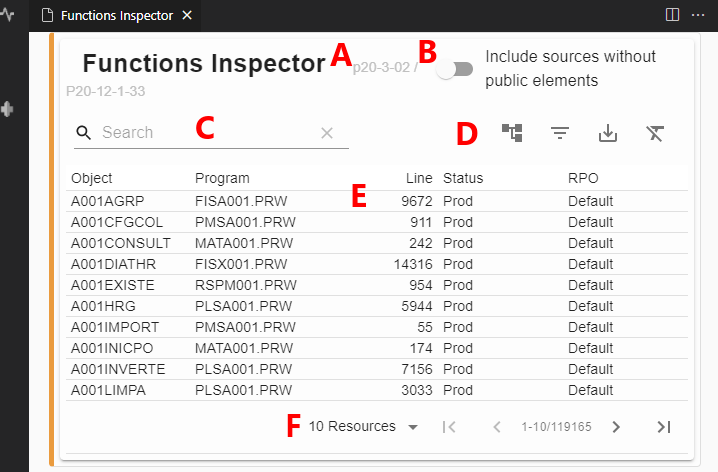
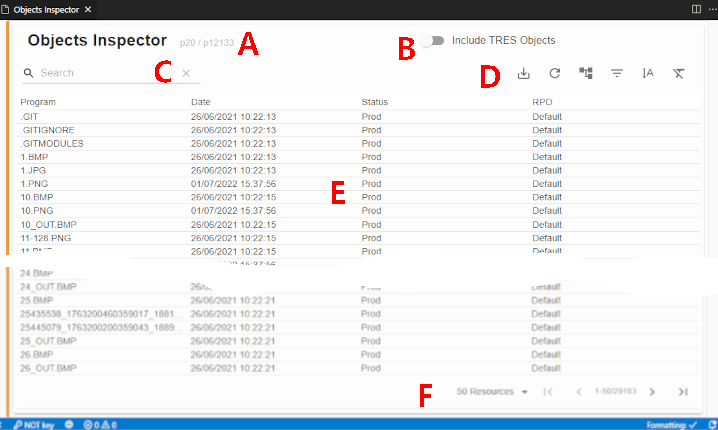
Fix 967

diff --git a/src/inspect-harpia/inspectLoader.ts b/src/inspect-harpia/inspectLoader.ts
@@ -168,10 +168,27 @@ export class InspectorLoader implements vscode.Disposable {
           async (progress, token) => {
             progress.report({ increment: 0 });
 
-            const filename: string = this.doExportToTxt(
-              this.inspectServer,
-              command.content.rows
-            );
+            let filename: string = "";
+
+            if (command.content.csv) {
+              if (this._options.objectsInspector) {
+                filename = this.doExportObjectsToCsv(
+                  command.content.columns,
+                  command.content.rows
+                );
+              } else {
+                filename = this.doExportFunctionsToCsv(
+                  command.content.columns,
+                  command.content.rows
+                );
+              }
+            } else {
+              filename = this.doExportToTxt(
+                this.inspectServer,
+                command.content.rows
+              );
+            }
+
             const uri: vscode.Uri = vscode.Uri.parse("file:" + filename);
             await vscode.workspace.openTextDocument(uri).then(
               (a: vscode.TextDocument) => {
@@ -226,7 +243,7 @@ export class InspectorLoader implements vscode.Disposable {
     for (const value of functionsInfo) {
       let line: string = "";
 
-      Object.keys(value).forEach((key: string) => {
+      ['source', 'date', 'rpo_status', 'source_status'].forEach((key: string) => {
         line += `${value[key]}`.padEnd(25);
       });
 
@@ -244,6 +261,59 @@ export class InspectorLoader implements vscode.Disposable {
     writeLine(`Generated by TDS-VSCode version${ext.packageJSON["version"]}`);
     writeLine(`at ${now}`);
     writeLine(SEPARATOR_LINE);
+
+    return file.name;
+  }
+
+  private doExportObjectsToCsv(columns: any[], functionsInfo: any[]): string {
+    const tmp = require("tmp");
+    const file = tmp.fileSync({ prefix: "vscode-tds-rpo", postfix: ".csv" });
+    const fs = require("fs");
+
+    const writeLine = (line: string) => {
+      fs.appendFileSync(file.fd, line);
+      fs.appendFileSync(file.fd, "\n");
+    };
+
+    const colSource: any = columns.find((col: any) => col.field == "source");
+    const colDate: any = columns.find((col: any) => col.field == "date");
+    const colSourceStatus: any = columns.find((col: any) => col.field == "source_status");
+    const colRpoStatus: any = columns.find((col: any) => col.field == "rpo_status");
+
+    let line: string = `"${colSource.title}";"${colDate.title}";"${colSourceStatus.title}";"${colRpoStatus.title}"`
+    writeLine(line);
+
+    for (const value of functionsInfo) {
+      line = `"${value["source"]}";"${value["date"]}";"${colSourceStatus.lookup[value["source_status"]]}";"${colRpoStatus.lookup[value["rpo_status"]]}"`;
+      writeLine(line);
+    }
+
+    return file.name;
+  }
+
+  private doExportFunctionsToCsv(columns: any[], functionsInfo: any[]): string {
+    const tmp = require("tmp");
+    const file = tmp.fileSync({ prefix: "vscode-tds-rpo", postfix: ".csv" });
+    const fs = require("fs");
+
+    const writeLine = (line: string) => {
+      fs.appendFileSync(file.fd, line);
+      fs.appendFileSync(file.fd, "\n");
+    };
+
+    const colFunction: any = columns.find((col: any) => col.field == "function");
+    const colSource: any = columns.find((col: any) => col.field == "source");
+    const colLine: any = columns.find((col: any) => col.field == "line");
+    const colSourceStatus: any = columns.find((col: any) => col.field == "source_status");
+    const colRpoStatus: any = columns.find((col: any) => col.field == "rpo_status");
+
+    let line: string = `"${colFunction.title}";"${colSource.title}";"${colLine.title}";"${colSourceStatus.title}";"${colRpoStatus.title}"`
+    writeLine(line);
+
+    for (const value of functionsInfo) {
+      line = `"${value["function"]}";"${value["source"]}";"${value["line"]}";"${colSourceStatus.lookup[value["source_status"]]}";"${colRpoStatus.lookup[value["rpo_status"]]}"`;
+      writeLine(line);
+    }
 
     return file.name;
   }
@@ -306,29 +376,29 @@ export class InspectorLoader implements vscode.Disposable {
         });
       } else {
         proc = () =>
-        sendInspectorFunctionsRequest(
-          this.inspectServer,
-          !this._options.includeOutScope
-        ).then(
-          (rows: IFunctionData[]) => {
-            this._results = rows;
-            this._panel.webview.postMessage({
-              command: InspectorPanelAction.UpdateInspectorInfo,
-              data: {
-                serverName: this.inspectServer.name,
-                environment: this.inspectServer.environment,
-                includeOutScope: this._options.includeOutScope,
-                dataRows: this._results,
-              },
-            });
-          },
-          (err: Error) => {
-            languageClient.error(err.message, err);
-            vscode.window.showErrorMessage(
-              err.message + localize("SEE_LOG", ". See log for details.")
-            );
-          }
-        );
+          sendInspectorFunctionsRequest(
+            this.inspectServer,
+            !this._options.includeOutScope
+          ).then(
+            (rows: IFunctionData[]) => {
+              this._results = rows;
+              this._panel.webview.postMessage({
+                command: InspectorPanelAction.UpdateInspectorInfo,
+                data: {
+                  serverName: this.inspectServer.name,
+                  environment: this.inspectServer.environment,
+                  includeOutScope: this._options.includeOutScope,
+                  dataRows: this._results,
+                },
+              });
+            },
+            (err: Error) => {
+              languageClient.error(err.message, err);
+              vscode.window.showErrorMessage(
+                err.message + localize("SEE_LOG", ". See log for details.")
+              );
+            }
+          );
       }
     }
 

diff --git a/src/inspect-harpia/app/inpectorPanel.tsx b/src/inspect-harpia/app/inpectorPanel.tsx
@@ -22,6 +22,7 @@ import {
 import { i18n } from "../helper";
 import { useToolbarStyles } from "../helper/theme";
 import SaveAlt from "@material-ui/icons/SaveAlt";
+import TextRotateVerticalOutlinedIcon from '@material-ui/icons/TextRotateVerticalOutlined';
 import InspectorTheme from "../helper/theme";
 import {
   Checkbox,
@@ -266,7 +267,7 @@ export default function InspectorPanel(props: IInspectorPanel) {
   });
 
   actions.push({
-    icon: () => <SaveAlt />,
+    icon: () => <TextRotateVerticalOutlinedIcon />,
     tooltip: i18n.localize("EXPORT", "Export as text file"),
     isFreeAction: true,
     onClick: () => {
@@ -295,9 +296,9 @@ export default function InspectorPanel(props: IInspectorPanel) {
   const labelIncludeOutScope = props.options.objectsInspector
     ? i18n.localize("INCLUDE_TRES", "Include TRES Objects")
     : i18n.localize(
-        "INCLUDE_NOT_PUBLIC",
-        "Include sources without public elements"
-      );
+      "INCLUDE_NOT_PUBLIC",
+      "Include sources without public elements"
+    );
   const refTable = React.useRef(null);
 
   return (
@@ -305,6 +306,7 @@ export default function InspectorPanel(props: IInspectorPanel) {
       <Paper variant="outlined">
         <MaterialTable
           tableRef={refTable}
+          title={`${title} ${subtitle}`}
           components={{
             Toolbar: (props) => (
               <div id="toolbarID">
@@ -341,7 +343,20 @@ export default function InspectorPanel(props: IInspectorPanel) {
             selection: false,
             grouping: grouping,
             filtering: filtering,
-            exportButton: false,
+            exportButton: true,
+            exportAllData: true,
+            exportCsv: (columns, data) => {
+              let command: IInspectorPanelAction = {
+                action: InspectorPanelAction.ExportToTxt,
+                content: {
+                  columns: columns,
+                  rows: data,
+                  csv: true
+                },
+              };
+
+              props.vscode.postMessage(command);
+            },
             padding: "dense",
             columnsButton: false,
             sorting: true,

diff --git a/src/inspect-harpia/app/inpectorPanelMemento.tsx b/src/inspect-harpia/app/inpectorPanelMemento.tsx
@@ -118,22 +118,22 @@ export const propFunctionsColumns = (extraProps?: any): any => {
       fieldDef("function", i18n.localize("OBJECT", "Object"), {
         ...extraProps,
         grouping: false,
-        width: "45%",
+        width: "25%",
       }),
       fieldDef("source", i18n.localize("PROGRAM", "Program"), {
         ...extraProps,
-        width: "40%",
+        width: "35%",
       }),
       fieldDef("line", i18n.localize("LINE", "Line"), {
         ...extraProps,
         grouping: false,
         type: "numeric",
-        width: "5%",
+        width: "15%",
       }),
       fieldDef("source_status", i18n.localize("SOURCE_STATUS", "Status"), {
         ...extraProps,
         lookup: { N: "NoAuth", P: "Prod", D: "Dev" },
-        width: "5%",
+        width: "15%",
       }),
       fieldDef("rpo_status", i18n.localize("RPO_STATUS", "RPO"), {
         ...extraProps,
@@ -143,7 +143,7 @@ export const propFunctionsColumns = (extraProps?: any): any => {
           T: "Tlpp",
           C: "Custom",
         },
-        width: "5%",
+        width: "10%",
       }),
     ],
   };
@@ -157,21 +157,21 @@ export const propObjectsColumns = (extraProps?: any): any => {
       fieldDef("source", i18n.localize("PROGRAM", "Program"), {
         ...extraProps,
         grouping: false,
-        width: "45%",
+        width: "40%",
       }),
       fieldDef("date", i18n.localize("DATE", "Date"), {
         ...extraProps,
         grouping: false,
-        width: "45%",
+        width: "30%",
       }),
       fieldDef("source_status", i18n.localize("SOURCE_STATUS", "Status"), {
         ...extraProps,
-        width: "5%",
+        width: "15%",
         lookup: { N: "NoAuth", P: "Prod", D: "Dev" },
       }),
       fieldDef("rpo_status", i18n.localize("RPO_STATUS", "RPO"), {
         ...extraProps,
-        width: "5%",
+        width: "15%",
         lookup: {
           N: "None",
           D: "Default",

diff --git a/docs/rpo-inspector.md b/docs/rpo-inspector.md
@@ -41,14 +41,19 @@ Ambos os inspetores permitem as mesmas operações.
 
 ![Operations Inspector](./images/inspetor-harpia.png)
 
-|     | Descrição                                                                                                      |
-| --- | -------------------------------------------------------------------------------------------------------------- |
-| A   | Titulo do inspetor em uso e identificação do servidor/ambiente                                                 |
-| B   | Filtro padrão para limitar número de elementos                                                                 |
-| C   | Filtro rápido, aplicado em todas as colunas                                                                    |
-| D   | Acionamento de agrupamento, filtro por coluna, exportação dos dados em arquivo texto e _reset_ de configuração |
-| E   | Informações obtidos nos _RPO´s_                                                                                |
-| F   | Elementos por página e navegação                                                                               |
+|     | Descrição                                                      |
+| --- | -------------------------------------------------------------- |
+| A   | Titulo do inspetor em uso e identificação do servidor/ambiente |
+| B   | Filtro padrão para limitar número de elementos                 |
+| C   | Filtro rápido, aplicado em todas as colunas                    |
+| D   | Barra de ferramentas (na ordem de apresentação)                |
+|     | Exportação CSV ou PDF                                          |
+|     | Agrupamemnto                                                   |
+|     | Filtro por coluna                                              |
+|     | Exportação em texto de largura fixa                            |
+|     | _Reset_ de configuração                                        |
+| E   | Informações obtidos nos _RPO´s_                                |
+| F   | Elementos por página e navegação                               |
 
 ### `Inspetor de Funções`
 

diff --git a/CHANGELOG.md b/CHANGELOG.md
@@ -1,5 +1,41 @@
 # Changelog
 
+# Versão [1.3.16]
+
+## Melhorias
+
+### Verificação do tamanho de linhas em fontes
+
+Introduzido verificação do tamanho da linha de código AdvPL, para evitar mensagem "_File is empty or corrupted_" no _linter_ e na compilação. [DTCLIENT01-3533](https://jiraproducao.totvs.com.br/browse/DTCLIENT01-3533)
+
+No _appServer_, o limite é de 4k durante o pré-processado (_.ppo_) do fonte e para evitar alguma ocorrência, foram definidos os limites (antes do pré-processamento):
+
+- 1K, como aviso
+- 2K, como erro
+
+### Exportação da lista de objetos (Harpia)
+
+Foi implementando opções de exportação em arquivos nos formatos [CSV\*](https://fileinfo.com/extension/csv) (_Comma Separated values File_) e [PDF](https://fileinfo.com/extension/pdf) (_Portable Document Format File_) [#967](https://github.com/totvs/tds-vscode/issues/967).
+
+| \* O arquivo CSV usa como separador o sinal ponto-e-virgúla entre valores e estes estão entre aspas.
+
+![Inspector tools bar](./doc/images/inspetor-tool-bar-harpia.png)
+
+|     | Descrição                                       |
+| --- | ----------------------------------------------- |
+| D   | Barra de ferramentas (na ordem de apresentação) |
+|     | Exportação CSV ou PDF                           |
+|     | Agrupamemnto                                    |
+|     | Filtro por coluna                               |
+|     | Exportação em texto de largura fixa             |
+|     | _Reset_ de configuração                         |
+
+## Correções
+
+### titulo (link para chamado)
+
+Descrição.
+
 # Versão [1.3.15]
 
 ## Melhorias
